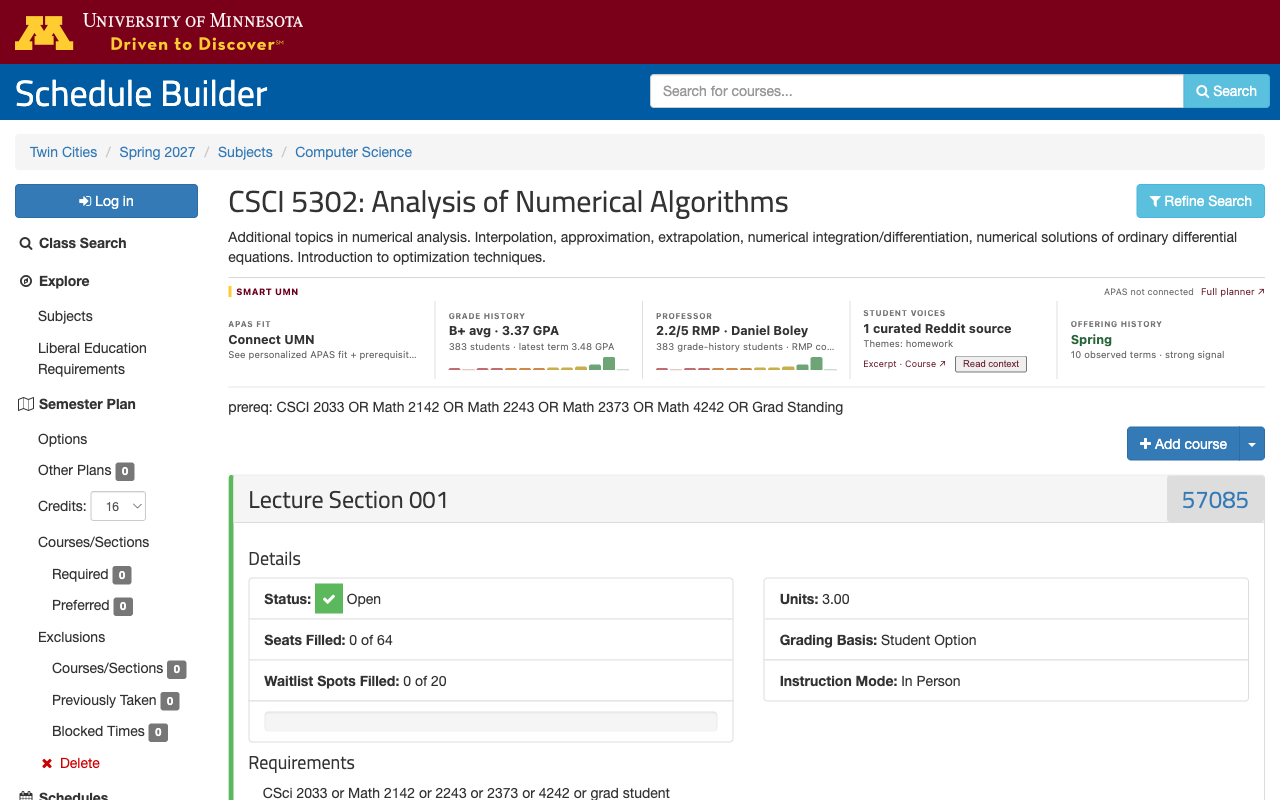
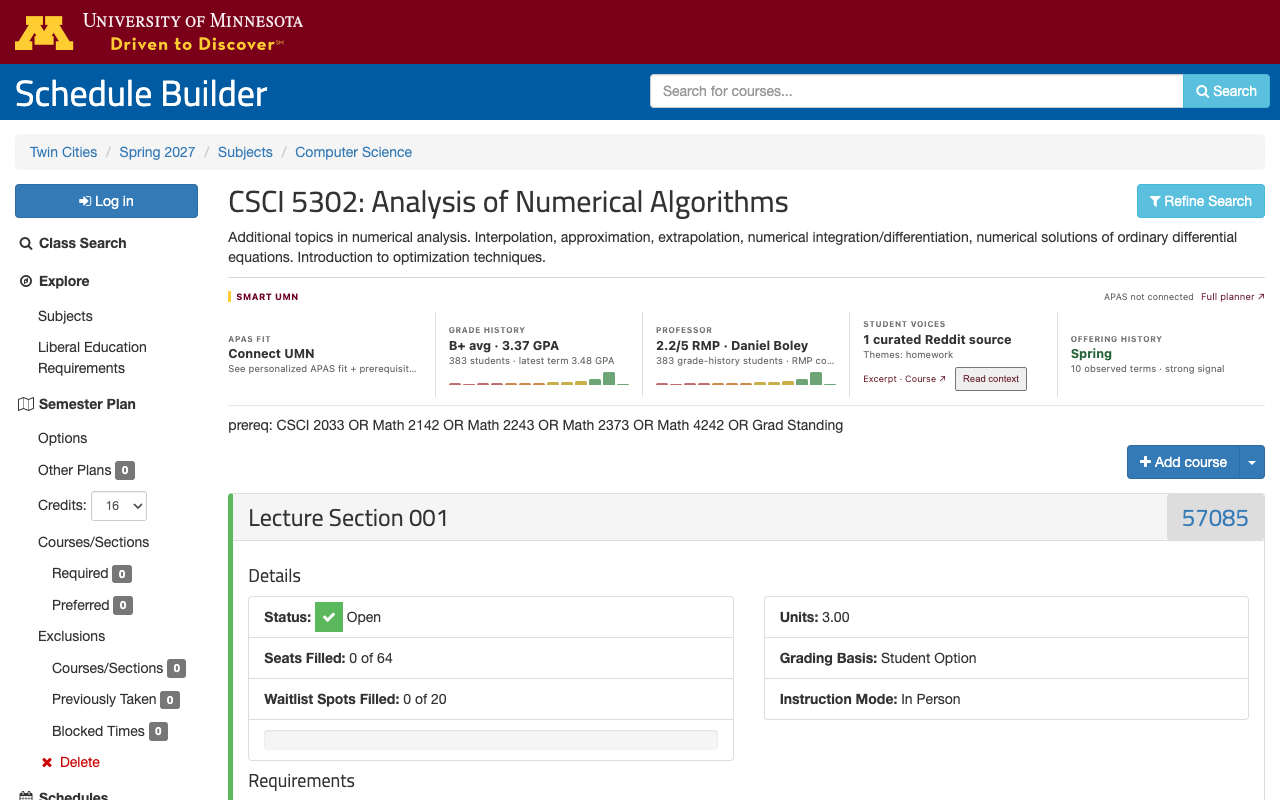
Record v0.10.5 canonical production and accessibility acceptance
Deploy 6abaedabfb679a14c7b9e9ca serves v0.10.5; canary 22/22, online-ZIP
accessibility acceptance 0 axe violations, fresh-profile browser gate passed.
Update README, operations (canary, policy-seed refresh runbook, rollback v0.10.1),
deployment, limitations, privacy, demos, verification and store listing
(package-ready; v0.10.5 is the package to upload). Recapture the Schedule
Builder store screenshot with v0.10.5 and add a keyboard demo.

diff --git a/scripts/verify-a11y.ts b/scripts/verify-a11y.ts
@@ -28,7 +28,7 @@ async function tabCycle(page:Page,label:string,max=80){
  report.keyboard[label]=seen;console.log(`PASS keyboard ${label}: ${seen.length} focus stops`);return seen;
 }
 const profile=await fs.mkdtemp(path.join(os.tmpdir(),'smart-umn-a11y-'));
-const ext=path.join(root,'dist/extension');
+const ext=process.env.SMART_UMN_EXTENSION_DIR?path.resolve(process.env.SMART_UMN_EXTENSION_DIR):path.join(root,'dist/extension');
 const context=await chromium.launchPersistentContext(profile,{headless:process.env.HEADLESS!=='false',executablePath,viewport:{width:1280,height:900},reducedMotion:'reduce',args:[`--disable-extensions-except=${ext}`,`--load-extension=${ext}`]});
 try{
  const page=await context.newPage();const errors:string[]=[];page.on('console',m=>{if(m.type()==='error')errors.push(m.text());});page.on('response',r=>{if(r.status()>=400&&new URL(r.url()).origin===base)errors.push(`HTTP ${r.status()} ${r.url()}`);});

diff --git a/README.md b/README.md
@@ -33,11 +33,11 @@ Smart UMN brings those questions together. Import your APAS, explore courses thr
 
 ### Course intelligence, where you already choose classes
 
-![Smart UMN v0.10.4 inside the real UMN Schedule Builder course page](docs/store/screenshot-course-intelligence-1280x800.png)
+![Smart UMN v0.10.5 inside the real UMN Schedule Builder course page](docs/store/screenshot-course-intelligence-1280x800.png)
 
 The extension adds a compact inline row inside Schedule Builder: APAS fit, grade history, professor context, student voices and offering history. Expand the evidence without leaving the course. Open the full planner with the course, semester and campus carried across automatically.
 
-*Current v0.10.4 capture; public course evidence, no student academic profile. Ratings and historical outcomes are context, not predictions.*
+*Current v0.10.5 capture; public course evidence, no student academic profile. Ratings and historical outcomes are context, not predictions.*
 
 ### From APAS to a plan you can explain
 
@@ -82,7 +82,15 @@ Current offerings come from UMN Schedule Builder. Historical grades come from Go
 
 Normalized APAS records, preferences and saved plans live in browser storage. The hosted API serves public evidence; it has no student-profile database. Course code, term and campus requests—and bounded review-only policy queries—are the network boundary. Passwords, Duo codes, cookies, SAML data and raw authenticated audit HTML are never uploaded to that API.
 
-The Manifest V3 extension uses `storage` and `alarms`, with access restricted to UMN APAS, Schedule Builder and the canonical planner. No `tabs`, cookies or Side Panel permission. [Privacy](https://smartumn.qinyangtan.com/privacy.html)
+The Manifest V3 extension uses `storage` and `alarms`, with access restricted to UMN APAS, Schedule Builder and the canonical planner. No `tabs`, cookies or Side Panel permission. [Privacy](https://smartumn.qinyangtan.com/privacy.html) · [Data & source governance](docs/GOVERNANCE.md)
+
+### Usable from the keyboard, watched in production
+
+![Keyboard-focused Course Intelligence expanded inside Schedule Builder](docs/demos/v0105-keyboard-course-intelligence.png)
+
+The core flows work from the keyboard: connecting APAS, planning, building a schedule and expanding Schedule Builder insights. The focus ring stays visible on UMN's white and maroon surfaces. Dialogs return focus to the control that opened them, and the weekly grid scrolls by keyboard. Layouts reflow down to 320 px and honor reduced motion. Each release runs axe-core (WCAG 2.2 AA) plus scripted keyboard, dialog and reflow checks against the live site and the exact published extension.
+
+A production canary runs every six hours. It checks TLS, security headers, API health and the deployed version, live UMN and GopherGrades data against the normalized contract, policy-evidence freshness, hostile-origin rejection and the published ZIP's checksum. An upstream **outage** is reported separately from a **schema change** that would need an adapter fix. A failure opens a GitHub issue, not a silent wrong answer.
 
 ## How it works
 
@@ -109,7 +117,8 @@ flowchart LR
 | **Academic core** | Typed rule trees, deterministic prerequisite evaluation, supported cross-requirement allocation and bounded section-combination search. |
 | **Public API** | Node.js 24 on Netlify Functions, validated provider adapters, bounded requests, timeouts and an ephemeral SQLite cache of refetchable public evidence. |
 | **Policy retrieval** | Lightweight lexical retrieval in production, with source scope, content hashes and freshness checks. Optional local MiniLM reranking is isolated from the serverless path and never becomes degree authority. |
-| **Build & verification** | esbuild, TypeScript checks, Node's test runner, synthetic browser acceptance, provider canaries and reproducible extension packaging. |
+| **Build & verification** | esbuild, TypeScript checks, Node's test runner, synthetic browser acceptance, axe-core accessibility acceptance and byte-reproducible extension packaging. |
+| **Operations** | Scheduled GitHub Actions canaries for canonical production and upstream sources, with outage and schema drift classified separately and issue-based alerting. |
 
 The public site runs independently of the developer's laptop. Personalization does not require a Smart UMN account. Hosting remains subject to provider availability and plan limits.
 
@@ -120,7 +129,7 @@ The public site runs independently of the developer's laptop. Personalization do
 3. Return to the planner and choose **Connect APAS**. Sign-in and Duo happen only on official UMN pages.
 4. Explore your options, build a plan, and review the final enrollment details in UMN's official systems.
 
-**Distribution status:** the production ZIP is publicly downloadable without GitHub access. Chrome Web Store submission/review is still pending; there is no one-click store listing yet. Managed browsers may prohibit unpacked extensions. Public course evidence can be explored without importing an APAS audit; personalized degree fit requires your own authorized audit.
+**Distribution status:** the v0.10.5 production ZIP is publicly downloadable without GitHub access. A Chrome Web Store package is prepared but not yet submitted, so there is no one-click store listing yet. Managed browsers may prohibit unpacked extensions. Public course evidence can be explored without importing an APAS audit; personalized degree fit requires your own authorized audit.
 
 [Support](https://smartumn.qinyangtan.com/support.html) · [Privacy](https://smartumn.qinyangtan.com/privacy.html) · [Known limitations](docs/LIMITATIONS.md)
 
@@ -141,9 +150,10 @@ npm test
 npm run typecheck
 NODE_ENV=production PUBLIC_ORIGIN=https://smartumn.qinyangtan.com npm run package:extension
 npm run verify:release -- --production
+npm run verify:production          # canonical production canary
 ```
 
-[Deployment](docs/DEPLOYMENT.md) · [Architecture](docs/ARCHITECTURE.md) · [Policy retrieval](docs/SEMANTIC_POLICY_RETRIEVAL.md) · [Verification](docs/VERIFICATION.md) · [Contributing](docs/CONTRIBUTING.md)
+[Deployment](docs/DEPLOYMENT.md) · [Operations](docs/OPERATIONS.md) · [Governance](docs/GOVERNANCE.md) · [Architecture](docs/ARCHITECTURE.md) · [Policy retrieval](docs/SEMANTIC_POLICY_RETRIEVAL.md) · [Verification](docs/VERIFICATION.md) · [Contributing](docs/CONTRIBUTING.md)
 
 ---
 

diff --git a/docs/LIMITATIONS.md b/docs/LIMITATIONS.md
@@ -8,7 +8,7 @@ Smart UMN Planner is currently a local-first **Twin Cities** prototype with a pu
 - **GopherGrades / campus scope:** the current public GopherGrades frontend/API is Twin Cities-only. To keep the combined product internally consistent, Smart UMN currently supports Twin Cities Schedule Builder only rather than offering branch-campus planning with a missing historical-evidence pillar.
 - **APAS / uAchieve:** personalized degree data is read from the student's browser-authenticated first-party pages. This is not a documented production APAS API. Semantic DOM/parser changes may require an update.
 - **Official UMN course feedback:** no verified integration is implemented yet; third-party fields are not relabeled as official feedback.
-- **Reddit / RateMyProfessors:** current policy is link-only. The prototype stores verified original links/entity associations but does not scrape those hosts or import their ratings into ranking.
+- **Reddit / RateMyProfessors:** current policy is link-only. Smart UMN stores verified original links/entity associations but does not scrape those hosts. A single RMP aggregate is displayed only when GopherGrades already republishes it for an unambiguous instructor match; it never enters schedule ranking. Reuse terms for these sources have not been legally reviewed; see [GOVERNANCE.md](GOVERNANCE.md).
 
 ## Planning correctness boundary
 
@@ -18,7 +18,7 @@ The rule engine is deliberately conservative. AP/IB/test/transfer credit is reco
 
 - The primary public Web/public-evidence origin is `https://smartumn.qinyangtan.com`, served by Netlify Free. The Netlify service subdomain remains available as an alternate hostname. The backend has no student accounts, hosted academic-state storage, application sessions, or institutional SSO because personalized state intentionally stays in the browser.
 - The historical Mac/Cloudflare service remains available only as a rollback origin behind the previously recorded Tunnel CNAME. It is laptop-backed and can go offline when that host sleeps or disconnects; primary availability no longer depends on it.
-- The Chrome extension is currently distributed as a reviewed ZIP / unpacked Developer-mode build rather than through the Chrome Web Store. Version 0.10.4 is production-accepted and Store-package-ready: the canonical download is byte-identical to the reviewed Git artifact, required store assets/privacy/support material are prepared, and the online exact package passed fresh-profile browser acceptance. Actual Developer Dashboard upload/review is still pending Google account reauthentication and Chrome Web Store review.
+- The Chrome extension is currently distributed as a reviewed ZIP / unpacked Developer-mode build rather than through the Chrome Web Store. Version 0.10.5 is production-accepted and Store-package-ready: the canonical download is byte-identical to the reviewed Git artifact, required store assets/privacy/support material are prepared, and the online exact package passed fresh-profile browser and accessibility acceptance. Chrome Web Store status is **package-ready**: nothing has been uploaded, submitted, approved or published. The last operator session reported that developer registration was complete but the Dashboard's **Select file** control would not open. That report has not been re-verified.
 - Academic state is local but not application-level encrypted; software with access to the same machine/browser profile may be able to read browser storage.
 - The extension initiates normal UMN/APAS navigation but never captures credentials, Duo codes, cookies, or SAML material.
 - Community references are displayed for human review and are never converted into a sentiment, difficulty, or professor-quality score.
@@ -26,7 +26,14 @@ The rule engine is deliberately conservative. AP/IB/test/transfer credit is reco
 
 ## Production work still required
 
-The primary Netlify HTTPS deployment has bounded public API inputs, exact host/origin checks, Netlify edge rate limiting, provider timeouts, an ephemeral public live cache, a reviewed public-evidence seed, synthetic fresh-browser acceptance, and fail-closed policy freshness. Remaining public-release work is primarily explicit provider/privacy/legal governance, Chrome Web Store account reauthentication/upload/review, schema-drift alerting, formal accessibility/UX review, and a larger anonymous real-APAS compatibility corpus. The serverless seed must be refreshed and redeployed when curated official policy snapshots expire; stale snapshots remain non-authoritative and disappear from current policy evidence.
+The primary Netlify HTTPS deployment has bounded public API inputs, exact host/origin checks, Netlify edge rate limiting, provider timeouts, an ephemeral public live cache, a reviewed public-evidence seed, synthetic fresh-browser acceptance, and fail-closed policy freshness. As of v0.10.5 there is a scheduled production canary with provider-outage versus schema-drift classification, a documented governance boundary, and a formal accessibility pass (axe-core plus keyboard, dialog, reflow and reduced-motion checks on the Web and the Schedule Builder extension UI). Remaining public-release work:
+
+- Chrome Web Store upload, review and publication.
+- A larger anonymous real-APAS compatibility corpus. Real AP, IB, other test-credit, multi-program, minor, certificate and unusual transfer audits are still unrepresented.
+- The human/legal items in [GOVERNANCE.md](GOVERNANCE.md).
+- Screen-reader testing with a real assistive technology. The automated and keyboard checks do not replace it.
+- A regular policy-seed refresh. Curated policy snapshots stop being served 7 days after capture and must be refreshed and redeployed. Stale snapshots stay non-authoritative and disappear from current policy evidence, and the canary warns 4 days before expiry.
+- APAS DOM drift can only be observed inside a student's authenticated browser. The server-side canary cannot see it; parser regressions are guarded by fixtures and the anonymous compatibility passport.
 
 ## Checkpoint deployment note
 

diff --git a/docs/OPERATIONS.md b/docs/OPERATIONS.md
@@ -1,5 +1,28 @@
 # Operations
 
+## Monitoring and alerting
+
+- **Production canary**: `.github/workflows/production-canary.yml` runs `npm run verify:production` every 6 hours and on demand. It needs no `npm ci`, no secrets and no student data. Each check has one category:
+  - `canonical`: DNS CNAME to Netlify, TLS certificate days remaining (warn below 21, fail below 7), home/privacy/support HTTP 200, Netlify edge, `/api/health` running, and the deployed version matching `package.json`.
+  - `security`: HSTS/CSP/nosniff/no-referrer headers, hostile Origin → 403, and policy search staying `decisionAuthority: none`.
+  - `provider-outage` vs `schema-drift`: live `CSCI 1133` context is validated against the normalized contract. Data present but malformed, or a provider message about schema/mismatch/invalid, is **drift** and always fails. An unreachable upstream is an **outage**: it fails for Schedule Builder and only warns for optional GopherGrades.
+  - `policy-freshness`: official policy evidence is actually served, and the oldest seeded snapshot is more than 4 days (warn) / 2 days (fail) from its 7-day expiry.
+  - `package`: the live `/smart-umn-extension.zip` SHA-256 equals the release ZIP for the current version.
+  - `rate-limit`: any HTTP 429 on the canary's own low-volume requests fails.
+- **Notification**: a scheduled failure opens, or comments on, one open GitHub issue labelled `production-canary`, using the workflow `GITHUB_TOKEN`. Repository watchers get GitHub's normal email. The report is uploaded as an artifact for 30 days. No Slack/pager channel is configured. Adding one needs an owner-provided secret, and no credential has been invented.
+- **Source canaries**: `live-canaries.yml` runs daily and checks the Twin Cities subject directory, ten subject catalogs, the Liberal Education catalog, GopherGrades and all official majors directly against the upstream sources.
+- **Not observable server-side**: APAS/uAchieve DOM drift. Only a student's authenticated browser can see it. It is guarded by parser fixtures, the anonymous compatibility corpus and the in-product "Audit structure is not supported" failure.
+- **Accessibility regression**: `SMART_UMN_CHROMIUM=… PUBLIC_ORIGIN=https://smartumn.qinyangtan.com npm run verify:a11y` runs axe-core and keyboard/dialog/reflow checks with a fresh profile and the synthetic fixture only. Set `SMART_UMN_EXTENSION_DIR` to an unzipped online download to test the exact published package.
+
+## Policy seed refresh (required at least weekly)
+
+Seeded policy snapshots stop being served 7 days after capture. The canary warns at 4 days remaining.
+
+1. On a trusted machine: `PLANNER_DB=/path/to/public-cache.sqlite npm run policy:refresh`. It uses the JEV/Playwright worker against `policy.umn.edu/education` only.
+2. `node scripts/export-public-evidence-seed.ts /path/to/public-cache.sqlite config/public-evidence-seed.json`, then review the diff. It must contain public policy text and reviewed links only.
+3. Run the full release gate. Seed-only changes do not alter the extension ZIP, so they do not need a version bump.
+4. Deploy from a clean `git archive` of the reviewed commit, then run `npm run verify:production` and confirm `policy-seed-expiry` passes.
+
 ## Netlify serverless path
 
 - Monitor the canonical `https://smartumn.qinyangtan.com/api/health` and `/api/health/providers`. The Netlify service subdomain remains useful for origin diagnosis, but a Netlify deploy being `ready` is not sufficient; invoke the canonical hostname, compare the live `/smart-umn-extension.zip` SHA with the reviewed release artifact, and run fresh-browser acceptance on the online-downloaded package.
@@ -21,4 +44,4 @@
 
 The accepted v0.10.3 production route is Cloudflare authoritative DNS `smartumn` as a DNS-only CNAME to `smart-umn-planner.netlify.app`. Netlify owns the active Let’s Encrypt certificate for `smartumn.qinyangtan.com`. The pre-cutover rollback value is CNAME `d3d8090b-2935-4862-ad10-ab90540a9c3f.cfargotunnel.com`, Proxied, TTL Auto.
 
-The existing `devspace-hermes` tunnel and `com.qinyang.smartumn` LaunchAgent remain active, and the old service still answers its loopback Host-header health check as v0.10.1. If Netlify/custom-domain production fails, restore exactly the rollback CNAME target, Proxied status and Auto TTL, then verify external HTTPS, `/api/health`, provider health and extension canonical-origin access. Preserve the unrelated `devspace` record. Do not delete the rollback service merely because the cutover is currently healthy.
+The existing `devspace-hermes` tunnel and `com.qinyang.smartumn` LaunchAgent remain active, and the old service still answers its loopback Host-header health check as v0.10.1. Re-checked on 2026-09-28 after the v0.10.5 release: the LaunchAgent is loaded, and the loopback health check on port 4320 answers v0.10.1 / parser 0.4.5. A rollback therefore serves **v0.10.1** behavior and ZIP until Netlify is restored; retiring or upgrading that service is a separate owner decision. If Netlify/custom-domain production fails, restore exactly the rollback CNAME target, Proxied status and Auto TTL, then verify external HTTPS, `/api/health`, provider health and extension canonical-origin access. Preserve the unrelated `devspace` record. Do not delete the rollback service merely because the cutover is currently healthy.

diff --git a/docs/VERIFICATION.md b/docs/VERIFICATION.md
@@ -1,5 +1,32 @@
 # Verification
 
+## v0.10.5 production canary + accessibility — 2026-09-28
+
+v0.10.5 adds operational monitoring and fixes the accessibility defects found by a formal pass over v0.10.4 production. APAS parsing, prerequisite/eligibility logic, solver ranking and API inputs are unchanged.
+
+**Accessibility findings on v0.10.4 production** (fresh Chromium profile, synthetic fixture, axe-core 4.13 WCAG 2.2 AA + best-practice rules, plus a scripted keyboard walk):
+- Every focus stop had a gold-only ring at 1.32–1.51:1. WCAG 1.4.11 requires 3:1.
+- APAS import closed the dialog and dropped focus to `<body>`.
+- The weekly schedule grid scrolled horizontally but was not keyboard reachable (`scrollable-region-focusable`).
+- Controls could scroll under the sticky topbar. axe reported this as `target-size` at 375 px.
+- `/privacy.html` and `/support.html` produced a `/favicon.ico` 404 console error.
+- In the extension, toggling an insight re-rendered the shadow rail and dropped focus to the host page. The "Full planner" link was a sub-24 px target, and `#777` text was 4.48:1.
+
+**Fixes and regressions:** maroon-led two-tone focus ring; focus returns to the connection control; the week grid is a labelled focusable region; breakpoint-aware `scroll-padding-top`; generated favicon; extension focus retention, focus ring, 24 px link targets and `#6f6f6f` text. The new extension and Web focus tests fail on the pre-fix code (2 failures verified) and pass after.
+
+**Monitoring:** `npm run verify:production` and the 6-hourly `production-canary` workflow (see OPERATIONS.md). The Netlify contract test no longer depends on wall-clock time. Before this change it failed with the clock set to 2026-10-06, because the checked-in policy seed expires on 2026-10-05.
+
[1 lines of base64/hex data omitted]
+
+**Canonical production** (Netlify deploy `6abaedabfb679a14c7b9e9ca`):
+- `verify:production` passed all 22 checks: DNS CNAME to Netlify, TLS with 89.9 days remaining, security headers, v0.10.5 health, healthy Schedule Builder and GopherGrades, live `CSCI 1133` course/sections/grades matching the normalized contract, 3 official policy passages with `decisionAuthority: none`, hostile Origin 403, no 429, and live ZIP == release ZIP. `/favicon.png` returns 200.
+- `verify:a11y` on production loaded the **online-downloaded** v0.10.5 ZIP into a fresh profile. 15 axe scans (privacy/support/home at 1280/375/320, connect dialog, imported plan, built schedule at 1280/375, Explore, and the real Schedule Builder `CSCI 5302` shadow rail) found 0 violations. Every focus ring measured ≥3:1. Escape restored focus to the trigger, import kept focus on `#connection` and announced through `role=status`, there was no horizontal overflow at 320 px, no animations ran under reduced motion, extension toggles kept focus, links pointed only to the canonical origin, and there were no console errors.
+- `verify:browser` on production passed synthetic import, fail-closed unknown credits, goal persistence, reload, live schedule, the 375 px layout, and the inline `MATH 1271` extension with instructor evidence.
+
+**Evidence:** `docs/evidence/production-canary-20260928-v0.10.5.json` and `docs/evidence/accessibility-acceptance-20260928-v0.10.5.json`. The Schedule Builder store screenshot was recaptured with the v0.10.5 production extension and no APAS profile.
+
+**Not done:** no assistive-technology (VoiceOver/NVDA) session was run. Chrome Web Store remains **package-ready**, with nothing uploaded.
+
 ## v0.10.4 production + Chrome Web Store readiness — 2026-09-28
 
 The v0.10.4 branch turns the reviewed ZIP into a Chrome Web Store-ready package without changing Smart UMN's local-first academic-data boundary. The Manifest V3 package declares Chrome 120+, `storage` and `alarms` only, exact host access for UMN uAchieve self-service, UMN Schedule Builder and `https://smartumn.qinyangtan.com/*`, a canonical homepage, and deterministic 16/32/48/128 pixel product icons. It contains no remotely hosted executable code, cookies/history/webRequest/all-sites permissions, Side Panel dependency, or credential API.

diff --git a/docs/DEPLOYMENT.md b/docs/DEPLOYMENT.md
@@ -53,8 +53,8 @@ The primary public origin is now `https://smartumn.qinyangtan.com`, served by th
 
 `https://smartumn.qinyangtan.com` is attached to Netlify site `3acbab52-b741-466a-bc3b-75c138903c83` and is the canonical production origin. Cloudflare authoritative DNS now publishes `smartumn` as a DNS-only CNAME to `smart-umn-planner.netlify.app`. Netlify successfully validated DNS and installed a Let’s Encrypt certificate whose SAN is `smartumn.qinyangtan.com`; direct SNI checks against both observed Netlify service IPs returned the matching certificate and v0.10.3 API response.
 
[2 lines of base64/hex data omitted]
 
 Netlify's project-level **Powered by Netlify badge is disabled**. On this Free-plan project the badge was edge-injected as a `srcdoc` inline-script frame, which Smart UMN's strict CSP correctly blocked. Keep the badge off rather than adding `unsafe-inline` to `script-src`.
 
-Rollback is intentionally retained: restore the `smartumn` record to CNAME `d3d8090b-2935-4862-ad10-ab90540a9c3f.cfargotunnel.com`, Proxied, TTL Auto. The `com.qinyang.smartumn` LaunchAgent and its public SQLite cache remain intact for that rollback; do not change the unrelated `devspace` DNS record or tunnel.
+Rollback is intentionally retained. Note that the rollback service currently runs **v0.10.1**, not the current release; a rollback therefore temporarily serves older Web behavior and an older ZIP, and the production canary will report the version/ZIP mismatch until Netlify is restored. To roll back, restore the `smartumn` record to CNAME `d3d8090b-2935-4862-ad10-ab90540a9c3f.cfargotunnel.com`, Proxied, TTL Auto. The `com.qinyang.smartumn` LaunchAgent and its public SQLite cache remain intact for that rollback; do not change the unrelated `devspace` DNS record or tunnel.

diff --git a/docs/store/listing.md b/docs/store/listing.md
@@ -9,7 +9,10 @@ This document is the review authority for the Chrome Web Store listing. Keep the
 - Canonical homepage: https://smartumn.qinyangtan.com/
 - Privacy policy: https://smartumn.qinyangtan.com/privacy.html
 - Support URL: https://smartumn.qinyangtan.com/support.html
-- External blocker at the last check: Google requires account reauthentication before the Developer Dashboard can be inspected or a draft item created. Do not store or automate the Google password/2FA response.
+- Status (2026-09-28): **package-ready**. Nothing has been uploaded, submitted, approved or published.
[1 lines of base64/hex data omitted]
+- Last observed blocker (operator session, 2026-09-28): Google reauthentication and developer registration were reported complete, but the **Add new item → Select file** control did not open a file chooser, even when clicked manually. This is likely because an automation/debugger session was attached to that Chrome window. Try dragging the ZIP onto the upload area, or use a Chrome window without automation attached. Not re-verified by the v0.10.5 session, because browser automation was unavailable.
+- Do not store or automate the Google password/2FA response.
 - Do not mark the extension as published until Chrome Web Store review actually completes.
 
 ## Store listing
@@ -135,7 +138,7 @@ Upload assets:
 - Screenshot 1: `docs/store/screenshot-web-onboarding-1280x800.png`
 - Screenshot 2: `docs/store/screenshot-course-intelligence-1280x800.png`
 
-Screenshot 1 is a clean-profile canonical Web onboarding view with no imported APAS profile. Screenshot 2 is the real public Schedule Builder `CSCI 5302` page with v0.10.4 Course Intelligence loaded and no student APAS profile. Neither screenshot should contain private student academic information.
+Screenshot 1 is a clean-profile canonical Web onboarding view with no imported APAS profile. Screenshot 2 is the real public Schedule Builder `CSCI 5302` page with the v0.10.5 production extension loaded and no student APAS profile (recaptured 2026-09-28). Neither screenshot should contain private student academic information.
 
 ## Pre-upload gate
 

diff --git a/docs/DEMOS.md b/docs/DEMOS.md
@@ -1,8 +1,14 @@
 # Smart UMN demos
 
-## Current production — v0.10.4
+## Current production — v0.10.5
 
 [Open the live planner](https://smartumn.qinyangtan.com) · [Download the production extension](https://smartumn.qinyangtan.com/smart-umn-extension.zip)
+
+![Keyboard-focused Course Intelligence inside Schedule Builder](demos/v0105-keyboard-course-intelligence.png)
+
+v0.10.5 keyboard flow on the real public CSCI 5302 page. The Grade history insight was focused with Tab and opened with Enter. It shows the maroon focus ring and the expanded distribution, GPA trend and current-instructor record. No APAS profile is present.
+
+The planner screenshots below were captured on v0.10.4. v0.10.5 changed only focus, keyboard and target-size details, so the layouts still match production.
 
 ![Canonical planner with synthetic APAS](demos/v0104-canonical-plan.png)
 
@@ -10,7 +16,7 @@ Captured from the canonical HTTPS site on September 28, 2026. The checked-in `ap
 
 ![Current extension inside public Schedule Builder](store/screenshot-course-intelligence-1280x800.png)
 
-The v0.10.4 extension capture shows the actual public CSCI 5302 course page. No student APAS profile is present. Source values reflect the capture date and can change.
+The extension capture (recaptured with v0.10.5) shows the actual public CSCI 5302 course page. No student APAS profile is present. Source values reflect the capture date and can change.
 
 ![Planning preferences with synthetic audit](demos/v0104-canonical-preferences.png)
 

diff --git a/docs/PRIVACY.md b/docs/PRIVACY.md
@@ -28,7 +28,7 @@ Policy retrieval is explanation/review evidence only (`decisionAuthority: none`)
 
 ## Schedule Builder and third-party evidence
 
-On `https://schedulebuilder.umn.edu/`, Smart UMN renders course intelligence next to the course using public UMN Schedule Builder data and optional public historical/context sources. RateMyProfessors and Reddit references are original links or reviewed context only. Following an external link sends the browser to that third-party site under that site's privacy practices.
+On `https://schedulebuilder.umn.edu/`, Smart UMN renders course intelligence next to the course using public UMN Schedule Builder data and optional public historical/context sources. RateMyProfessors and Reddit references are original links or reviewed context only. Smart UMN does not scrape either site. A professor-rating aggregate appears only when the public GopherGrades service already republishes it, with a link to its source. Source and legal boundaries are summarized in [GOVERNANCE.md](GOVERNANCE.md). Following an external link sends the browser to that third-party site under that site's privacy practices.
 
 Smart UMN does not sell user data, use it for advertising, build advertising profiles, or transfer academic data to data brokers. The project has no advertising or analytics scripts. Humans do not read individual academic profiles through a Smart UMN backend because those profiles are not stored there.
 
